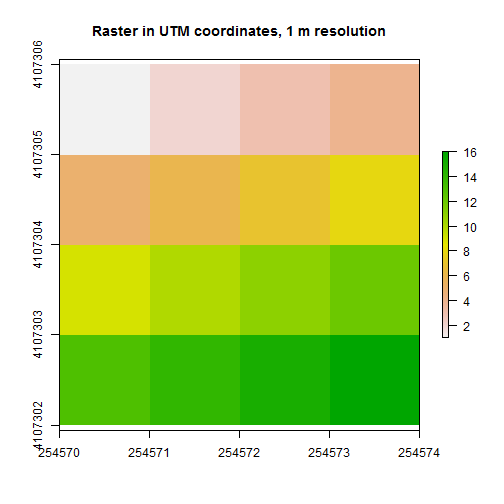
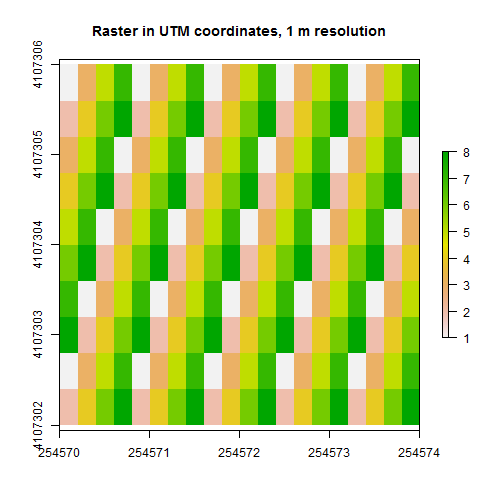
fixed the projection parts

diff --git a/_posts/SPATIALDATA/2014-11-03-Working-With-Rasters-in-R-Python-GIS.md b/_posts/SPATIALDATA/2014-11-03-Working-With-Rasters-in-R-Python-GIS.md
@@ -322,29 +322,6 @@ For a library of CRS information:
 library of CRS information.</a>
 
 
-    #let's define the projection for our data using the DEM raster that already has 
-    #defined CRS.
-    
-    #view the crs of our DEM object.
-    DEM@crs
-
-    ## CRS arguments:
-    ##  +proj=utm +zone=11 +datum=WGS84 +units=m +no_defs +ellps=WGS84
-    ## +towgs84=0,0,0
-
-    #define the CRS using a CRS of another raster
-    myRaster1@crs  <- DEM@crs
-    #look at the attributes
-    myRaster1
-
-    ## class       : RasterLayer 
-    ## dimensions  : 4, 4, 16  (nrow, ncol, ncell)
-    ## resolution  : 90, 45  (x, y)
-    ## extent      : -180, 180, -90, 90  (xmin, xmax, ymin, ymax)
-    ## coord. ref. : +proj=utm +zone=11 +datum=WGS84 +units=m +no_defs +ellps=WGS84 +towgs84=0,0,0 
-    ## data source : in memory
-    ## names       : layer 
-    ## values      : 1, 16  (min, max)
 
 ## CRS Strings
 
@@ -387,18 +364,34 @@ to define the extent. The resolution of this dataset is `1 meter` and we will be
 in UTM (meters).
 
 
+    #create a raster from the matrix
+    newMatrix  <- (matrix(1:8, nrow = 10, ncol = 20))
+    
+    #create a raster from the matrix
+    rasterNoProj <- raster(newMatrix)
+    rasterNoProj
+
+    ## class       : RasterLayer 
+    ## dimensions  : 10, 20, 200  (nrow, ncol, ncell)
+    ## resolution  : 0.05, 0.1  (x, y)
+    ## extent      : 0, 1, 0, 1  (xmin, xmax, ymin, ymax)
+    ## coord. ref. : NA 
+    ## data source : in memory
+    ## names       : layer 
+    ## values      : 1, 8  (min, max)
+
     #Define the xmin and y min (the lower left hand corner of the raster)
     xMin = 254570
     yMin = 4107302
     
     # we can grab the cols and rows for the raster using @ncols and @nrows
-    myRaster1@ncols
+    rasterNoProj@ncols
 
-    ## [1] 4
+    ## [1] 20
 
-    myRaster1@nrows
+    rasterNoProj@nrows
 
-    ## [1] 4
+    ## [1] 10
 
     # define the resolution
     res=1.0
@@ -419,22 +412,41 @@ in UTM (meters).
     ## ymax        : 4107306
 
     #finally apply the extent to our raster
-    myRaster1@extent <- rasExt
-    
-    #Now we have an extent associated with our raster which places it in space!
-    myRaster1
+    rasterNoProj@extent <- rasExt
+    rasterNoProj
 
     ## class       : RasterLayer 
-    ## dimensions  : 4, 4, 16  (nrow, ncol, ncell)
-    ## resolution  : 1, 1  (x, y)
+    ## dimensions  : 10, 20, 200  (nrow, ncol, ncell)
+    ## resolution  : 0.2, 0.4  (x, y)
     ## extent      : 254570, 254574, 4107302, 4107306  (xmin, xmax, ymin, ymax)
-    ## coord. ref. : +proj=utm +zone=11 +datum=WGS84 +units=m +no_defs +ellps=WGS84 +towgs84=0,0,0 
+    ## coord. ref. : NA 
     ## data source : in memory
     ## names       : layer 
-    ## values      : 1, 16  (min, max)
+    ## values      : 1, 8  (min, max)
+
+    #view extent only
+    rasterNoProj@extent
+
+    ## class       : Extent 
+    ## xmin        : 254570 
+    ## xmax        : 254574 
+    ## ymin        : 4107302 
+    ## ymax        : 4107306
+
+    #Now we have an extent associated with our raster which places it in space!
+    rasterNoProj
+
+    ## class       : RasterLayer 
+    ## dimensions  : 10, 20, 200  (nrow, ncol, ncell)
+    ## resolution  : 0.2, 0.4  (x, y)
+    ## extent      : 254570, 254574, 4107302, 4107306  (xmin, xmax, ymin, ymax)
+    ## coord. ref. : NA 
+    ## data source : in memory
+    ## names       : layer 
+    ## values      : 1, 8  (min, max)
 
     par(mfrow=c(1,1))
-    plot(myRaster1, main="Raster in UTM coordinates, 1 m resolution")
+    plot(rasterNoProj, main="Raster in UTM coordinates, 1 m resolution")
 
 ![ ]({{ site.baseurl }}/images/rfigs/2014-11-03-Working-With-Rasters-in-R-Python-GIS/define-extent-1.png) 
 
@@ -445,6 +457,44 @@ resolution plot. use: `par(mfrow=c(1,2))` to create side by side plots.
 the raster's extent properties??
 
 
+    #let's define the projection for our data using the DEM raster that already has 
+    #defined CRS.
+    #NOTE: in this case we have to KNOW that our raster is in this projection already!
+    rasterNoProj@crs
+
+    ## CRS arguments: NA
+
+    #view the crs of our DEM object.
+    DEM@crs
+
+    ## CRS arguments:
+    ##  +proj=utm +zone=11 +datum=WGS84 +units=m +no_defs +ellps=WGS84
+    ## +towgs84=0,0,0
+
+    #define the CRS using a CRS of another raster
+    rasterNoProj@crs  <- DEM@crs
+    #look at the attributes
+    rasterNoProj
+
+    ## class       : RasterLayer 
+    ## dimensions  : 10, 20, 200  (nrow, ncol, ncell)
+    ## resolution  : 0.2, 0.4  (x, y)
+    ## extent      : 254570, 254574, 4107302, 4107306  (xmin, xmax, ymin, ymax)
+    ## coord. ref. : +proj=utm +zone=11 +datum=WGS84 +units=m +no_defs +ellps=WGS84 +towgs84=0,0,0 
+    ## data source : in memory
+    ## names       : layer 
+    ## values      : 1, 8  (min, max)
+
+    #view just the crs
+    rasterNoProj@crs
+
+    ## CRS arguments:
+    ##  +proj=utm +zone=11 +datum=WGS84 +units=m +no_defs +ellps=WGS84
+    ## +towgs84=0,0,0
+
+IMPORTANT: the above code does NOT REPROJECT the raster. It simply defines the
+Coordinate Reference System based upon the CRS of another raster. If you want to
+actually CHANGE the CRS of a raster, you need to use the `projectRaster` function.
 
 ##Reprojecting Data
 If you run into multiple spatial datasets with varying projections, you can 
@@ -453,40 +503,50 @@ and R both have reprojection tools that perform this task.
 
 
 
-    # reproject raster data to CRS of dataset2 in R
+    # reproject raster data from UTM to CRS of Lat/Long WGS84
     
-    # use nearest neighbor to ensure that the values stay the same
-    reprojectedData1 <- projectRaster(myRaster, 
+    reprojectedData1 <- projectRaster(rasterNoProj, 
                                      crs="+proj=longlat +ellps=WGS84 +datum=WGS84 +no_defs ")
+    
+    #note that the extent has been adjusted to account for the NEW crs
+    reprojectedData1@crs
 
-    ## Error in projectRaster(myRaster, crs = "+proj=longlat +ellps=WGS84 +datum=WGS84 +no_defs "): input projection is NA
+    ## CRS arguments:
+    ##  +proj=longlat +ellps=WGS84 +datum=WGS84 +no_defs +towgs84=0,0,0
+
+    reprojectedData1@extent
+
+    ## class       : Extent 
+    ## xmin        : -119.761 
+    ## xmax        : -119.7609 
+    ## ymin        : 37.07989 
+    ## ymax        : 37.07993
 
     #note the range of values in the output data
     reprojectedData1
 
     ## class       : RasterLayer 
-    ## dimensions  : 13, 22, 286  (nrow, ncol, ncell)
-    ## resolution  : 1.12e-05, 9e-06  (x, y)
-    ## extent      : -119.761, -119.7607, 37.07988, 37.08  (xmin, xmax, ymin, ymax)
+    ## dimensions  : 12, 25, 300  (nrow, ncol, ncell)
+    ## resolution  : 2.25e-06, 3.6e-06  (x, y)
+    ## extent      : -119.761, -119.7609, 37.07989, 37.07993  (xmin, xmax, ymin, ymax)
     ## coord. ref. : +proj=longlat +ellps=WGS84 +datum=WGS84 +no_defs +towgs84=0,0,0 
     ## data source : in memory
     ## names       : layer 
-    ## values      : 0.6476699, 8.641977  (min, max)
+    ## values      : 0.6920572, 10.2188  (min, max)
 
     # use nearest neighbor interpolation  method to ensure that the values stay the same
-    reprojectedData2 <- projectRaster(myRaster, 
+    reprojectedData2 <- projectRaster(rasterNoProj, 
                                      crs="+proj=longlat +ellps=WGS84 +datum=WGS84 +no_defs ", 
                                      method = "ngb")
-
-    ## Error in projectRaster(myRaster, crs = "+proj=longlat +ellps=WGS84 +datum=WGS84 +no_defs ", : input projection is NA
-
+    
     #http://www.inside-r.org/packages/cran/raster/docs/projectRaster
+    #note that the min and max values have now been forced to stay within the same range.
     reprojectedData2
 
     ## class       : RasterLayer 
-    ## dimensions  : 13, 22, 286  (nrow, ncol, ncell)
-    ## resolution  : 1.12e-05, 9e-06  (x, y)
-    ## extent      : -119.761, -119.7607, 37.07988, 37.08  (xmin, xmax, ymin, ymax)
+    ## dimensions  : 12, 25, 300  (nrow, ncol, ncell)
+    ## resolution  : 2.25e-06, 3.6e-06  (x, y)
+    ## extent      : -119.761, -119.7609, 37.07989, 37.07993  (xmin, xmax, ymin, ymax)
     ## coord. ref. : +proj=longlat +ellps=WGS84 +datum=WGS84 +no_defs +towgs84=0,0,0 
     ## data source : in memory
     ## names       : layer 
